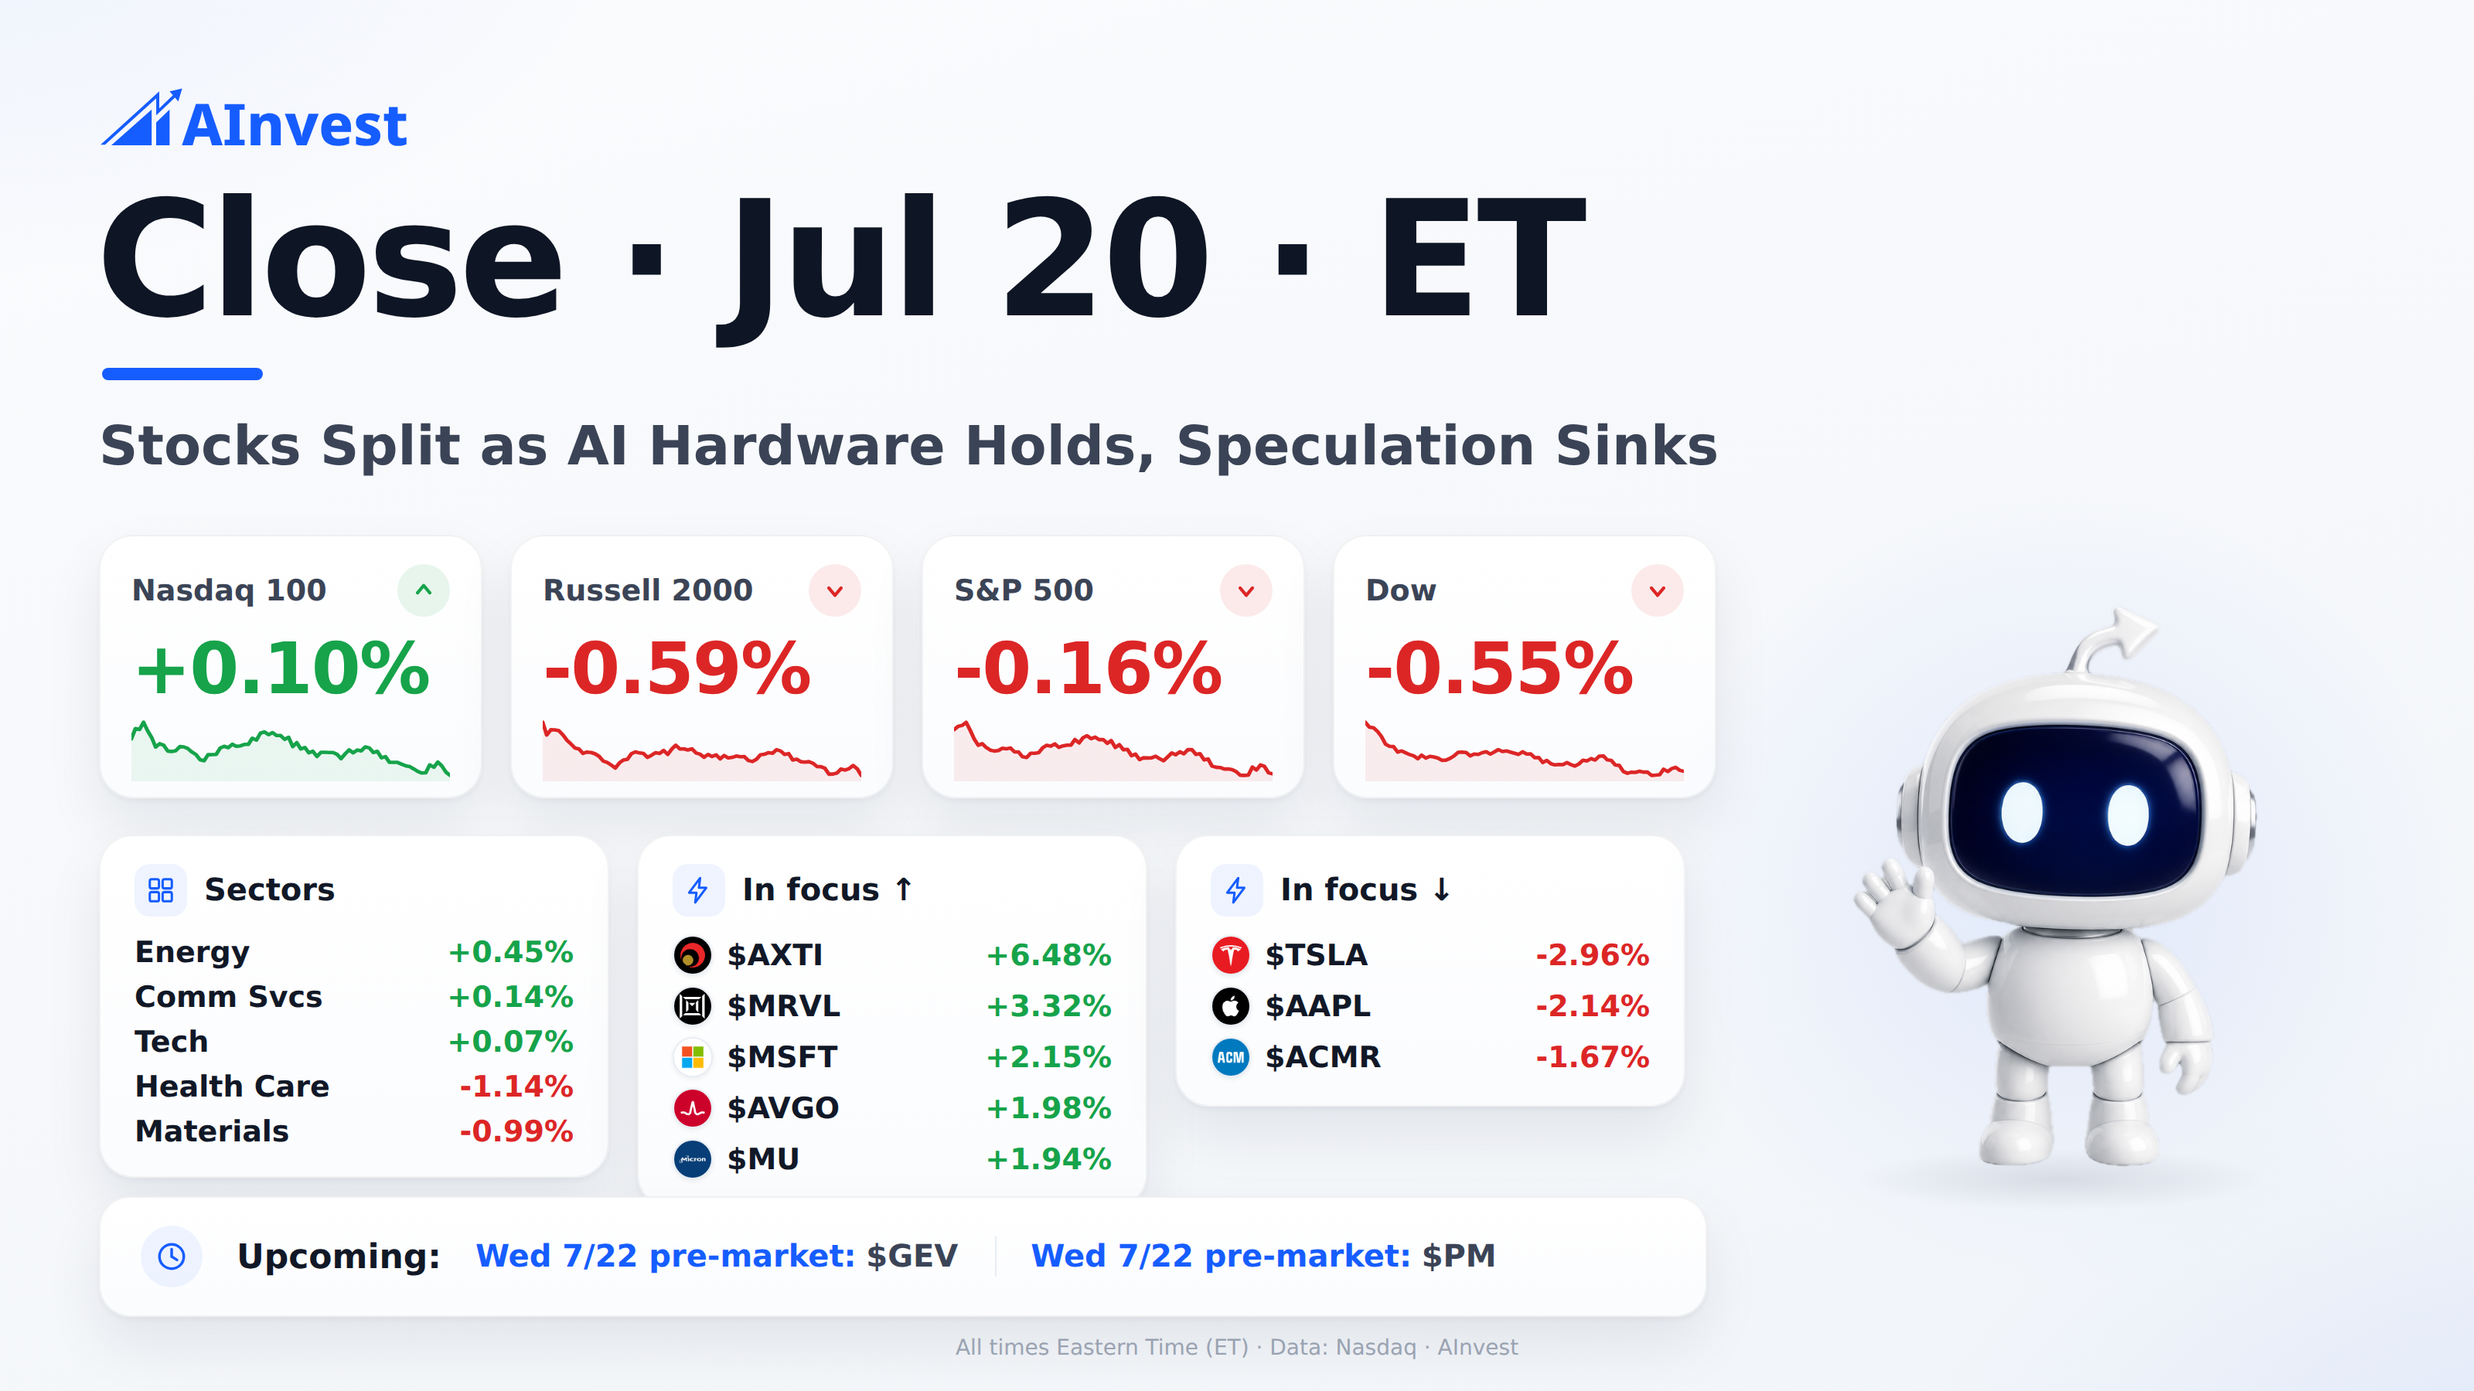
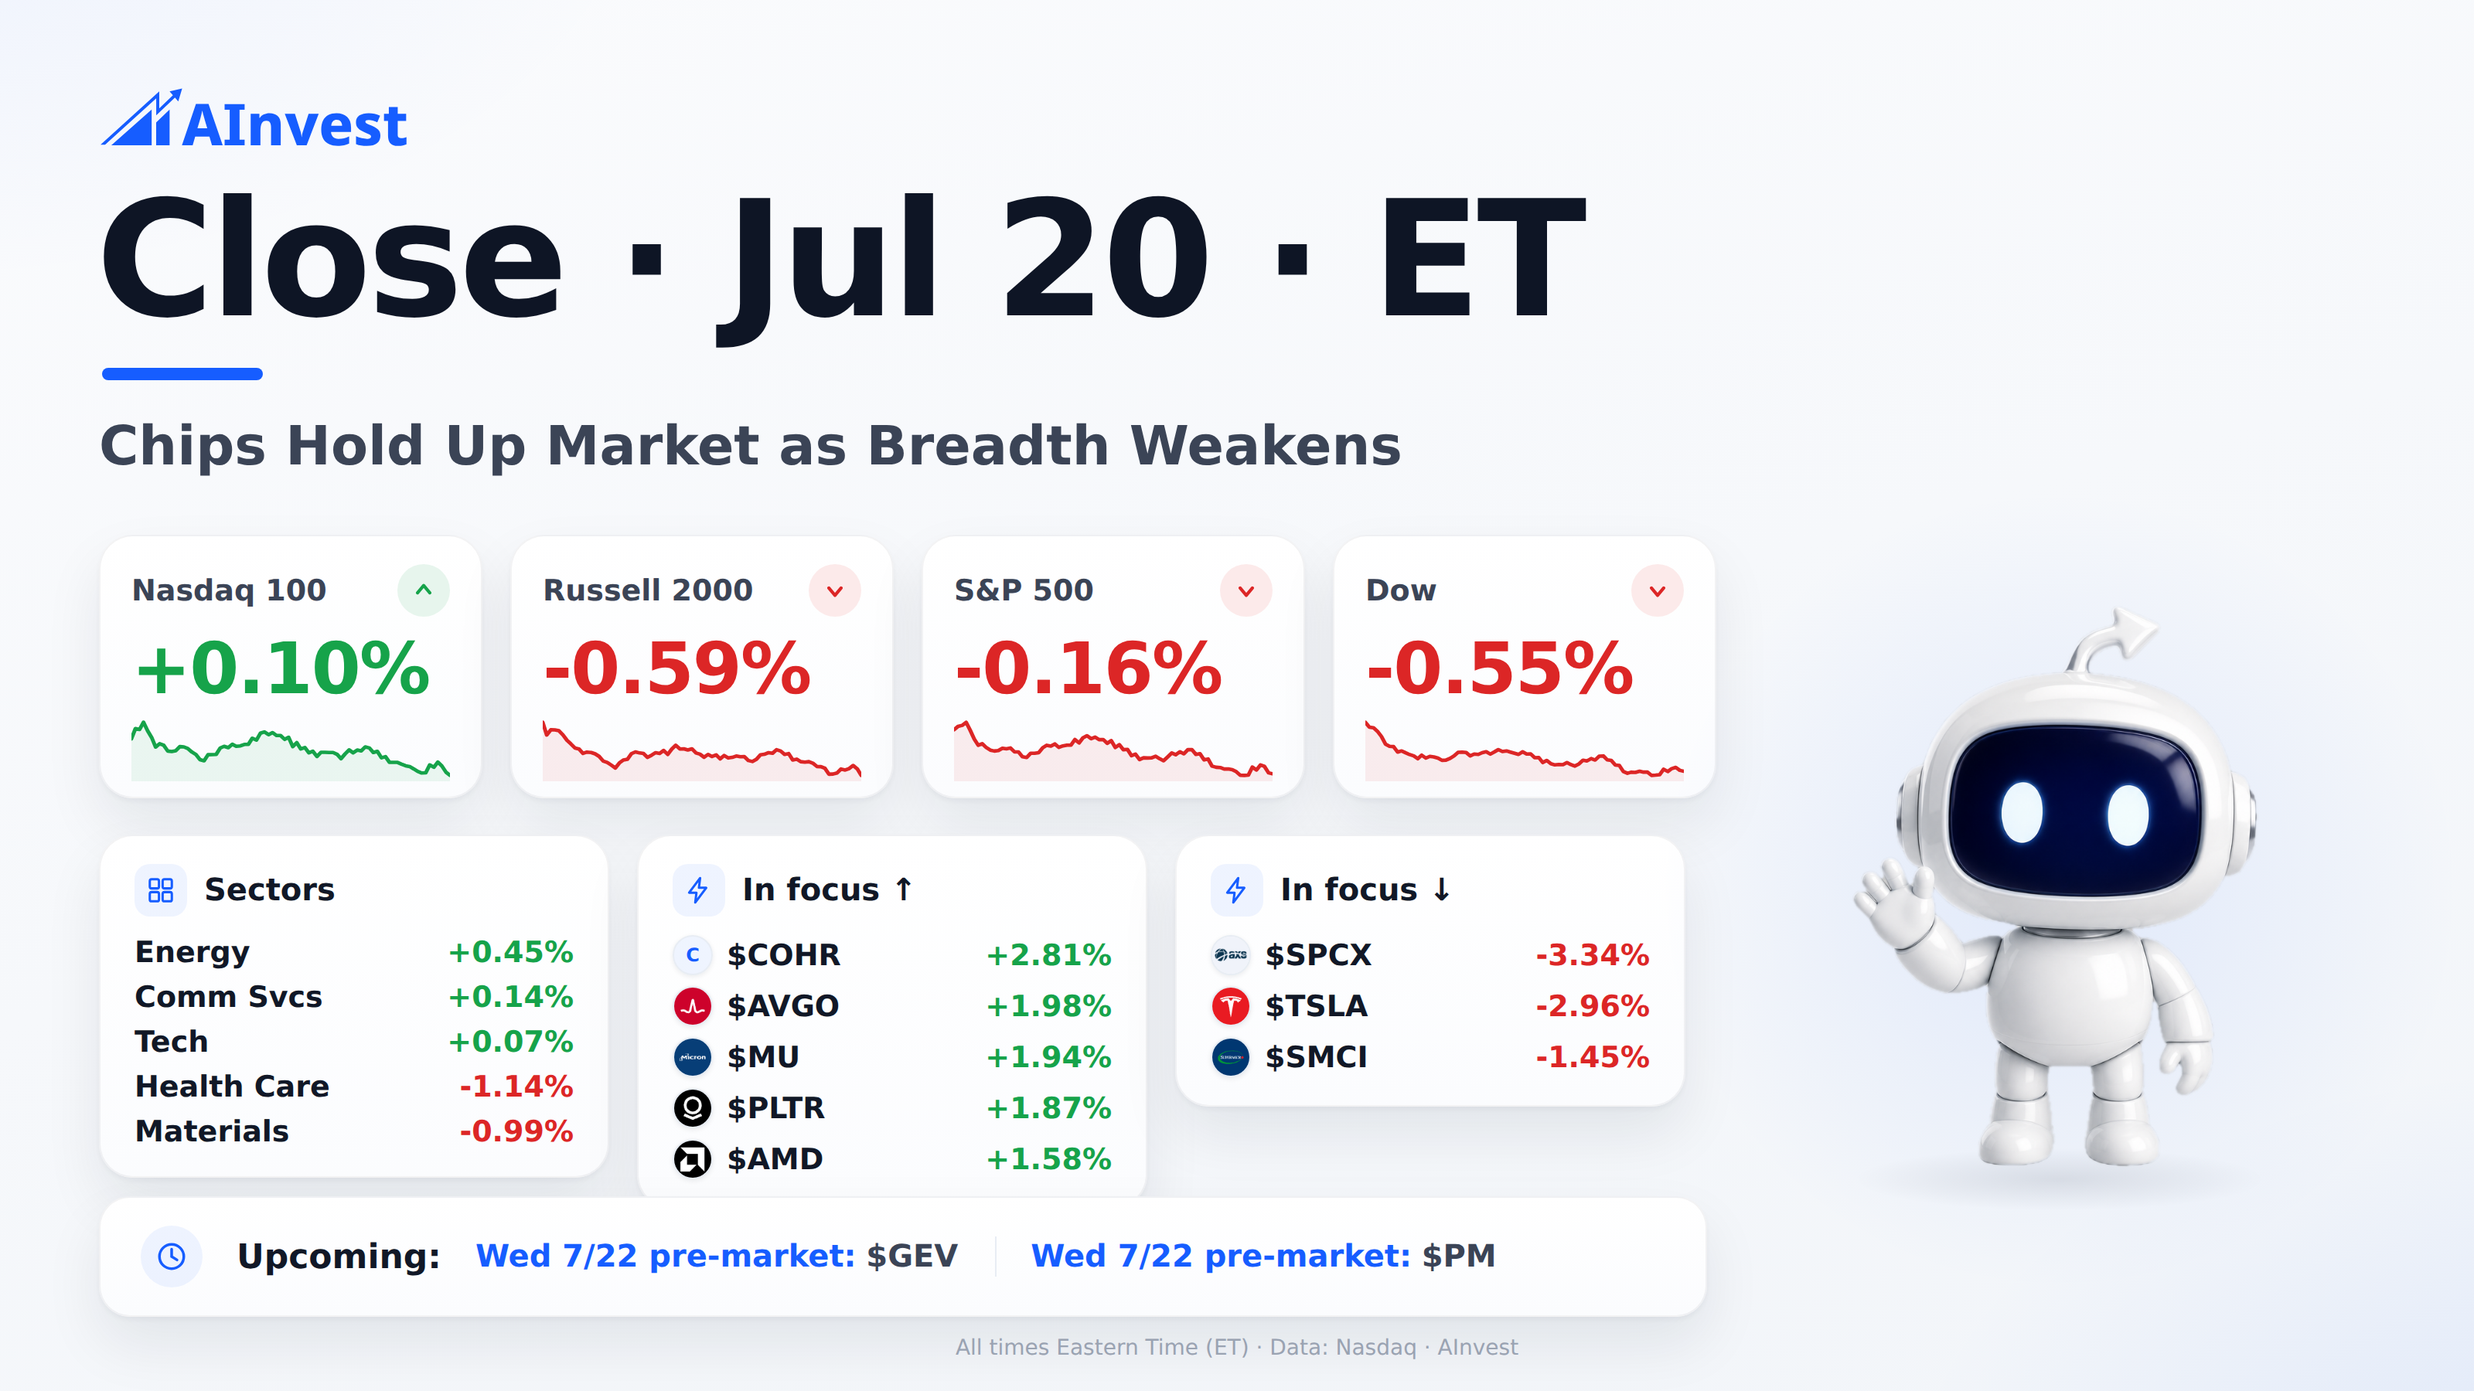
report: 收盘复盘 + 卡片 2026-07-20(线上 Claude Opus 4.8)

diff --git a/data/reports/close_20260720.md b/data/reports/close_20260720.md
@@ -1,56 +1,53 @@
 # 收盘复盘 · 07-20(美东收盘)
 
-_收盘数据 · 2026-07-20 22:17 ET · 我不是股神 · 非投资建议_
+_收盘数据 · 2026-07-20 22:32 ET · 我不是股神 · 非投资建议_
 
 ## 1. 一句话定调
 
-今天这根 K 线不是“全面回撤”，而是很典型的分裂盘：标普500收跌0.16%，道指跌0.55%，罗素2000跌0.59%，但纳指100反而收涨0.10%。资金没有离场，只是更挑剔——卖掉宏观敏感、消费、部分高估值题材，继续抱住半导体和AI硬件链里还能讲清楚需求的名字。
+今天这根 K 线不是“全面风险偏好回来了”，而是**指数被芯片和少数高弹性题材硬拉住，宽度其实偏弱**：纳指100收涨 **+0.10%**，靠半导体续命；标普500小跌 **-0.16%**，道指 **-0.55%**、罗素2000 **-0.59%** 都收在水下。换句话说，钱没有大举进场，只是在更挑剔地买“还有叙事、有催化、有流动性”的地方，卖掉没有即时故事、估值又不便宜的票。
 
 ## 2. 今天的主线
 
-**第一条：芯片没有崩，反而是大盘里的抗跌核心。**  
-盘前和盘中新闻都在讲“芯片承压”“等待大型科技财报”，甚至有关于SK Hynix带动半导体波动的标题，但收盘给出的答案很直接：MU涨1.94%，AVGO涨1.98%，AMD涨1.58%，ARM涨0.91%，NVDA小涨0.23%。这不是全行业无脑拉升，而是资金在AI链内部做筛选：存储、定制芯片、CPU/IP、GPU龙头都有人接，但弹性不一样。MU的新闻焦点是“SK Hynix warning之后为什么Micron反涨”，市场交易的不是短期噪音，而是存储周期和AI服务器需求能否继续改写老的boom-and-bust叙事。AMD则有“目标价上调、Microsoft deal”的消息支撑，今天更像是资金给AI替代叙事补仓。
+第一条主线：**芯片修复，但不是全体起飞，是“AI硬件核心资产”被重新挑出来买。**  
+新闻面给的背景很清楚：Yahoo Finance 提到美股涨跌不一、芯片股上涨，市场在等大型科技财报；AMD 有“目标价上调、微软交易”相关报道，AMD、Micron、SK Hynix 也被报道为半导体板块尝试修复。盘面上，MU 收涨 **+1.94%**，AVGO **+1.98%**，AMD **+1.58%**，ARM **+0.91%**，NVDA 只涨 **+0.23%**。这里的信号不是“芯片没事了”，而是资金开始区分：存储、ASIC、CPU/IP、AI服务器链条里，谁的短期叙事更顺，谁就先反弹；而 NVDA 这种最大共识票反而只是稳住，不再轻易给指数提供暴力贝塔。
 
-**第二条：风险偏好没死，但只去最拥挤的高弹性角落。**  
-涨幅榜很说明问题：ACHR涨19.59%，IREN涨19.57%，CIFR涨16.97%，HUT涨10.37%，GLXY涨9.39%，BETA涨10.59%。这批不是传统防御股，而是飞行汽车/航天、数字资产、算力/矿工这类“高beta合约”。所以今天不能简单说市场risk-off。真正发生的是：指数层面被道指和小盘拖住，但投机资金仍在找能快速定价的主题。IREN、CIFR、HUT、GLXY集体走强，说明加密/算力相关链条今天有明显资金回流；ACHR和BETA大涨，则说明低空/航空电动化这条线仍被当成高弹性风险资产交易。
+第二条主线：**高波动题材继续吸钱，飞行器、数字资产、能源新叙事冲在前面。**  
+涨幅榜最夸张的是 ACHR **+19.59%**、BETA **+10.59%**，说明低空/电动飞行器这条线还在被资金拿来做弹性；数字资产相关 IREN **+19.57%**、CIFR **+16.97%**、HUT **+10.37%**、GLXY **+9.39%** 集体大涨，典型是风险资金没有离场，只是从大指数权重里挪到更容易打出日内收益的票。XE **+11.70%** 也说明能源/新型电力叙事仍有买盘。今天真正的市场语言是：宏观有噪音、指数不强，但游资和主题资金还很活。
 
-**第三条：被卖的是“估值先行、兑现压力大”的票。**  
-跌幅榜里，HDB跌10.54%，CAVA跌7.76%，TEM跌7.74%，BE跌8.33%，TWST跌6.82%。这不是单一行业事故，而是资金在把不能立刻证明基本面的高估值资产往外挤。CAVA这种消费成长，TEM、TWST这种生物科技/AI医疗链，Bloom Energy这种能源技术股，今天都被市场要求“拿结果说话”。这类票的问题不是故事没有了，而是今天这根K线显示：在地缘、油价、财报季同时压过来的时候，市场愿意为AI硬件付溢价，但不愿意为所有成长故事都付溢价。
+第三条主线：**消费、成长高估值和部分防御票被卖，说明市场并不愿意无差别买贵。**  
+跌幅榜里 CAVA 跌 **-7.76%**，TEM 跌 **-7.74%**，TWST 跌 **-6.82%**，这些都带有“高预期、高估值、需要持续证明自己”的特征；BE 跌 **-8.33%**，也说明能源科技这条线内部不是一起涨，资金更愿意追今天有更强故事的票，而不是包圆整个板块。HDB 大跌 **-10.54%**，属于海外金融权重的明显抛压。别误读今天的盘面：不是风险偏好全面升温，而是**市场在用更窄的门放行风险资产**。
 
 ## 3. 热门追踪
 
-SPCX收跌3.34%，尽管有Cathie Wood增持SpaceX相关消息，但今天资金明显没有把它当避险资产，反而先兑现高估值航天链。  
-MU收涨1.94%，在SK Hynix相关担忧背景下逆势走强，市场更愿意交易AI存储需求的长期逻辑。  
-NVDA收涨0.23%，不是主攻手，是压舱石；新闻也在说股价需要更多催化，今天属于稳住而非爆发。  
-AVGO收涨1.98%，定制芯片/AI基础设施叙事继续被买，尽管也有减持和弱势月份的噪音。  
-AMD收涨1.58%，受目标价上调和Microsoft deal相关消息提振，今天明显强于大盘。  
-ARM收涨0.91%，受AI带动CPU需求的叙事支持，走势温和但方向跟随半导体主线。  
-SMCI收跌1.45%，AI服务器链里今天被区别对待，说明资金不是无差别买AI。  
-PLTR收涨1.87%，软件AI仍有人接，但今天风头在硬件和半导体。  
-TSLA收跌2.96%，在大盘分裂背景下被卖，资金没有把它当作今日科技主线核心。  
-COHR收涨2.81%，光通信/AI基础设施链表现强，说明资金继续沿算力瓶颈方向找弹性。
+- **SPCX** 收跌 **-3.34%**，即便有 Cathie Wood 增持 SpaceX 相关报道，今天价格还是被卖，说明热门私有航天敞口短线更像情绪资产。  
+- **MU** 收涨 **+1.94%**，Barron’s 提到 SK Hynix 警示后 Micron 反而上涨，市场在交易存储周期和供需再定价。  
+- **NVDA** 收涨 **+0.23%**，基本是稳住盘面，不是领涨；新闻也在讨论它为何盈利大增但股价一段时间表现平。  
+- **AVGO** 收涨 **+1.98%**，跟随 AI 半导体修复，但新闻里也有股东减持、模型卖出等杂音，买盘不是没有顾虑。  
+- **AMD** 收涨 **+1.58%**，受目标价上调、微软交易相关报道支撑，是今天芯片修复里更有催化的一只。  
+- **ARM** 收涨 **+0.91%**，投资行上调目标、AI CPU 需求叙事继续给估值撑伞。  
+- **SMCI** 收跌 **-1.45%**，在芯片链多数修复时逆势走弱，说明服务器硬件这端资金仍然挑剔。  
+- **PLTR** 收涨 **+1.87%**，AI应用/政府数据叙事继续有人买，属于今天成长股里相对强的一类。  
+- **TSLA** 收跌 **-2.96%**，没有跟随纳指修复，说明资金今天没有把它当“AI权重”买，而是当高波动消费科技票卖。  
+- **COHR** 收涨 **+2.81%**，光通信/AI基础设施链条获得买盘，是今天硬件链里比指数更强的分支。
 
 ## 4. 消息面
 
-**第一，财报季前的等待，让资金更集中。**  
-Yahoo Finance提到市场在等待大型科技财报，今天盘面正是这种状态：指数没有大方向突破，但芯片和AI基础设施继续被提前配置。市场不怕贵，怕的是贵还没有业绩验证。
+第一，**市场在等大型科技财报，芯片先出现修复。** Yahoo Finance 的盘中报道直接点出：道指、标普、纳指涨跌不一，芯片股上涨，市场等待 Big Tech earnings。今天纳指能收红，就是这条线在托底。
 
-**第二，地缘风险压住了道指和小盘。**  
-Reuters多条消息提到伊朗、胡塞、红海与沙特海上封锁风险，CNBC也提到油价因霍尔木兹紧张而上行。这个背景下，道指跌0.55%、罗素跌0.59%并不意外。小盘和传统工业更吃宏观成本、融资环境和风险溢价，今天自然不是资金首选。
+第二，**半导体新闻催化集中在 AMD、Micron、ARM。** AMD 有目标价上调和微软交易相关报道；Micron 在 SK Hynix 警示后反涨；ARM 被报道因 AI 推动 CPU 需求而获投行上调目标。资金今天买的不是“半导体”三个字，而是买“AI需求还能不能继续外溢”。
 
-**第三，Jamie Dimon的风险提醒压制了“无脑买一切”。**  
-CNBC报道Dimon称市场低估风险，并表示不会在当前价格买股票或美债。这类话不会单独决定一天行情，但会强化机构的动作：不是砸盘，而是把仓位从没有确定性的成长股挪到更强共识的AI硬件链。
+第三，**地缘风险压着指数宽度。** Reuters 多条消息提到伊朗、胡塞、红海/沙特海上封锁等事件，市场关注中东风险和油价扰动。这个背景解释了为什么指数没有因为芯片修复就全面拉升：风险预算被地缘新闻卡住了。
 
-**第四，市场可能误读的一点：新闻标题里的“芯片暴跌”没有等于收盘事实。**  
-今天最有意思的地方是，部分实时标题描述了芯片抛售、纳指大跌，但收盘纳指100涨0.10%，MU、AVGO、AMD、ARM都收红。盘中恐慌和收盘结果不是一回事。真正重要的不是谁盘中吓人，而是谁能收在买盘手里。
+第四，**Jamie Dimon 的风险提醒压住了乐观叙事。** CNBC 报道 Dimon 认为市场低估风险，并表示当前价格下不会买股票或美债。你可以不同意他，但这种话在财报季前出现，会让资金更倾向于买确定性强的龙头、卖掉边缘资产。
 
 ## 5. 盘后 & 明日看点
 
-今天盘后已有一批财报：AGNC Investment、Baker Hughes、BOK Financial、Calix、Crown Holdings、Home Bancorp、Monarch Casino、Park Aerospace、RBB Bancorp、ServisFirst、SmartFinancial、Steel Dynamics、W.R. Berkley、Wintrust、Zions等。盘后反应会给明天金融、能源服务、工业材料几条线提供第一轮信号。
+今天盘后已有一批财报，包括 **AGNC Investment、Baker Hughes、BOK Financial、Calix、Crown Holdings、Monarch Casino、Park Aerospace、ServisFirst、SmartFinancial、Steel Dynamics、W.R. Berkley、Wintrust、Zions** 等，盘后反应会给金融、能源服务、工业材料一些温度计。
 
-明天盘前重点看Ally Financial、Atlantic Union Bankshares、D.R. Horton、Danaher、Equifax、Forestar、General Dynamics、General Motors、Halliburton、Hasbro、KeyCorp、3M、MSCI、Northrop Grumman、Charles Schwab、Synchrony Financial、Vicor、Valmont等。  
-明天盘后则有Alaska Air、Chubb、Capital One、EQT、East West Bancorp、IBKR、ICON、NLY、Pegasystems、Range Resources、Western Alliance、Webster Financial、Weatherford等。市场赌的不是单家公司数字，而是三件事：银行信用有没有裂缝，工业/国防订单有没有韧性，能源链能不能受地缘风险托住。
+明天重点更多。盘前看 **Ally Financial、Atlantic Union Bankshares、D.R. Horton、Danaher、General Dynamics、General Motors、Halliburton、Hasbro、KeyCorp、3M、MSCI、Northrop Grumman、Charles Schwab、Synchrony Financial、VICR、Valmont** 等；盘后看 **Alaska Air、Chubb、Capital One、EQT、East West Bancorp、Interactive Brokers、ICON、Pegasystems、Range Resources、Western Alliance、Webster Financial、Weatherford** 等。
+
+市场明天赌的不是单家公司 EPS 那么简单，而是三件事：银行信贷有没有裂缝，工业/住房需求有没有降温，AI硬件链的订单和资本开支叙事能不能继续撑住估值。
 
 ## 6. 一句话
 
-今天最该记住的是：指数表面混乱，但资金并没撤退，它只是把“故事股”卖掉，把“AI硬件和算力确定性”继续买回来了。
+今天最该记住的是：**指数表面平静，内部已经分层——资金还在买风险，但只买有叙事、有催化、能解释估值的风险。**
